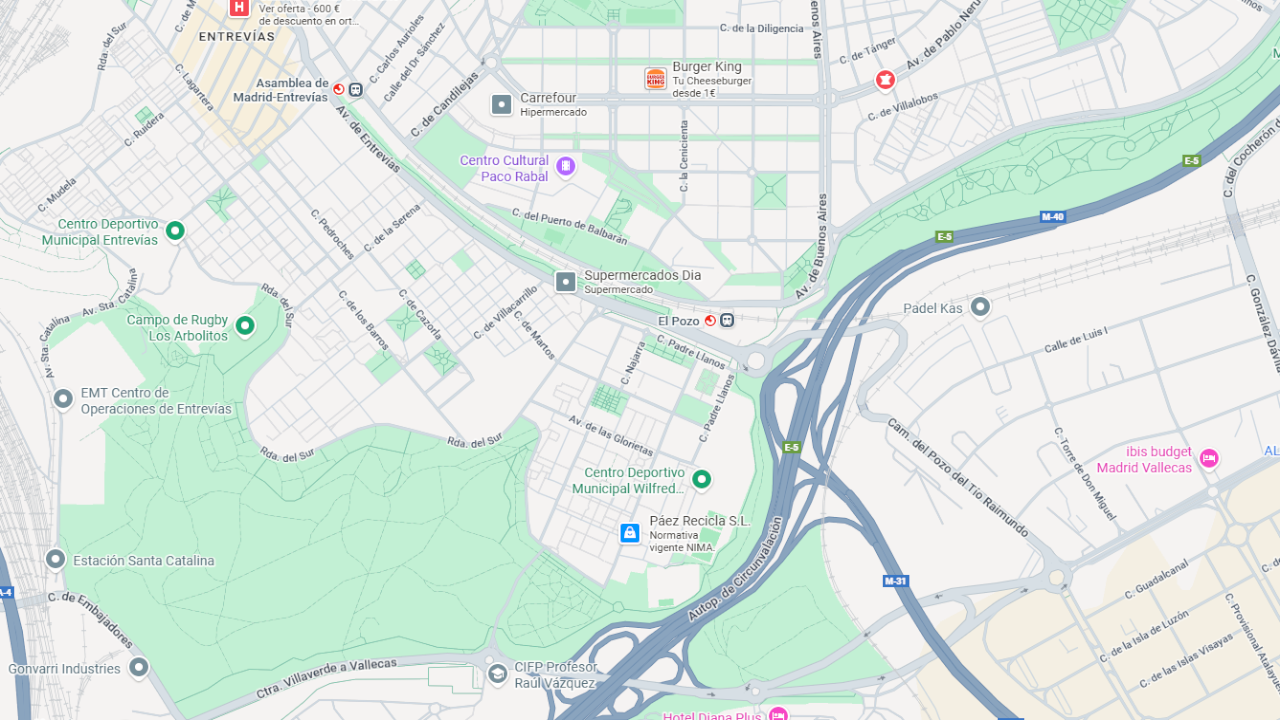
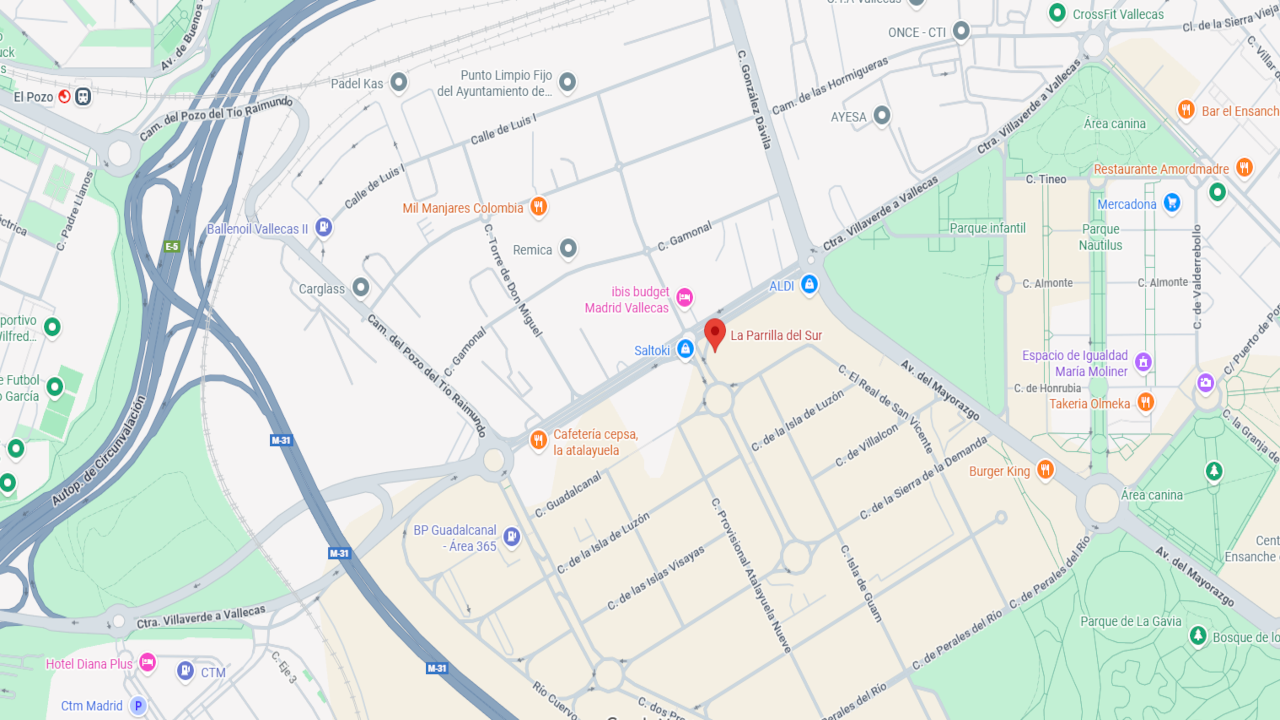
Add files via upload

diff --git a/index.html b/index.html
@@ -90,12 +90,12 @@
             <div
                class="bg-white bg-opacity-10 backdrop-filter backdrop-blur-lg rounded-2xl p-8 mb-12 max-w-2xl mx-auto">
                <p class="text-2xl md:text-3xl font-serif mb-2">
-                  17 de Abril, 2026
+                  18 de Abril, 2026
                </p>
-               <p class="text-lg md:text-xl">El Bocadito Caliente Catracho</p>
+               <p class="text-lg md:text-xl">La Parrilla del Sur</p>
                <p class="text-base md:text-lg opacity-90">Madrid, España</p>
                <div class="mt-8 flex justify-center">
-                  <a href="https://goo.su/8FYzhu" target="_blank" class="flex items-center gap-2 bg-white border border-gray-200 px-4 py-2 rounded-full shadow-sm hover:shadow-md hover:bg-gray-50 transition-all text-gray-700">
+                  <a href="https://goo.su/ZapPJD" target="_blank" class="flex items-center gap-2 bg-white border border-gray-200 px-4 py-2 rounded-full shadow-sm hover:shadow-md hover:bg-gray-50 transition-all text-gray-700">
                      <i class="ri-google-fill text-xl text-[#4285F4]"></i> 
                      <span class="text-sm font-medium">Añadir a mi calendario</span>
                   </a>
@@ -165,8 +165,8 @@
                            Fecha y Hora
                         </h3>
                      </div>
-                     <p class="text-lg">Viernes, 17 de Abril de 2026</p>
-                     <p class="text-lg">12:15 - 13:15</p>
+                     <p class="text-lg">Sábado, 18 de Abril de 2026</p>
+                     <p class="text-lg">20:00</p>
                   </div>
 
                   <div class="bg-secondary rounded-2xl p-8">
@@ -176,12 +176,12 @@
                         ></i>
                         <h3 class="font-serif text-2xl font-bold">Ubicación</h3>
                      </div>
-                     <p class="font-semibold">El Bocadito Caliente Catracho</p>
+                     <p class="font-semibold">La Parrilla del Sur</p>
                      <p class="text-gray-600 mb-4">
-                        C. de Ramírez Tomé, 30, Puente de Vallecas, 28038 Madrid
+                        C. Provisional Atalayuela Cuatro, 1, Villa de Vallecas, 28031 Madrid, España
                      </p>
                      <a
-                        href="https://maps.app.goo.gl/g2PbQVDHm1t3FxXw9"
+                        href="https://maps.app.goo.gl/ZRaRK9MuYZ4X1aiVA"
                         target="_blank"
                         class="inline-block bg-primary text-white px-6 py-3 rounded-lg hover:bg-opacity-90 transition"
                      >
@@ -193,11 +193,13 @@
                <div
                   class="rounded-2xl overflow-hidden shadow-inner bg-gray-100 min-h-[300px]"
                >
+               <a href="https://maps.app.goo.gl/ZRaRK9MuYZ4X1aiVA" target="_blank">
                   <img
                      src="map.png"
                      class="w-full h-full object-cover"
                      alt="Mapa"
                   />
+               </a>
                </div>
             </div>
          </div>
@@ -260,7 +262,7 @@
       </footer>
 
       <script>
-         const weddingDate = new Date("June 15, 2026 19:00:00").getTime();
+         const weddingDate = new Date("April 18, 2026 20:00:00").getTime();
 
          const timer = setInterval(function () {
             const now = new Date().getTime();
